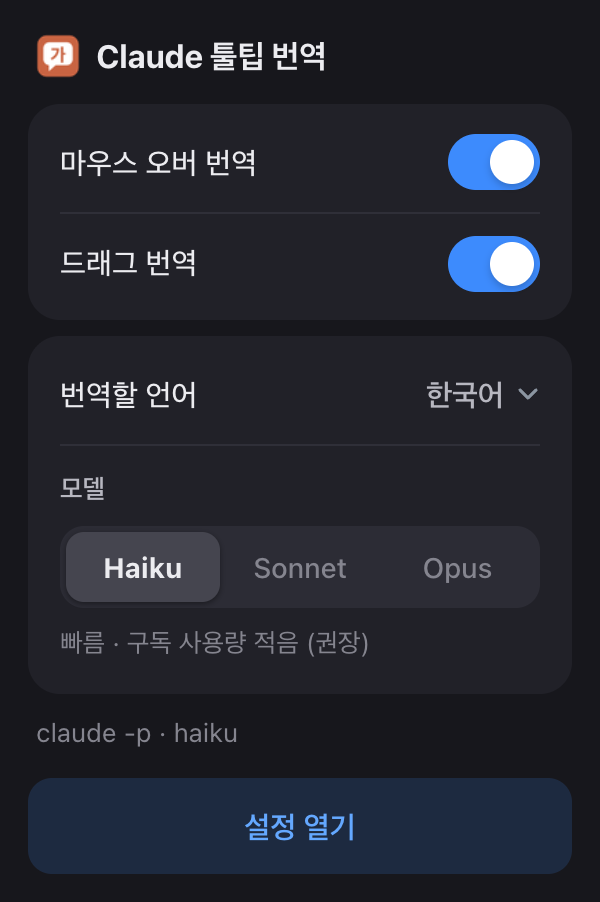
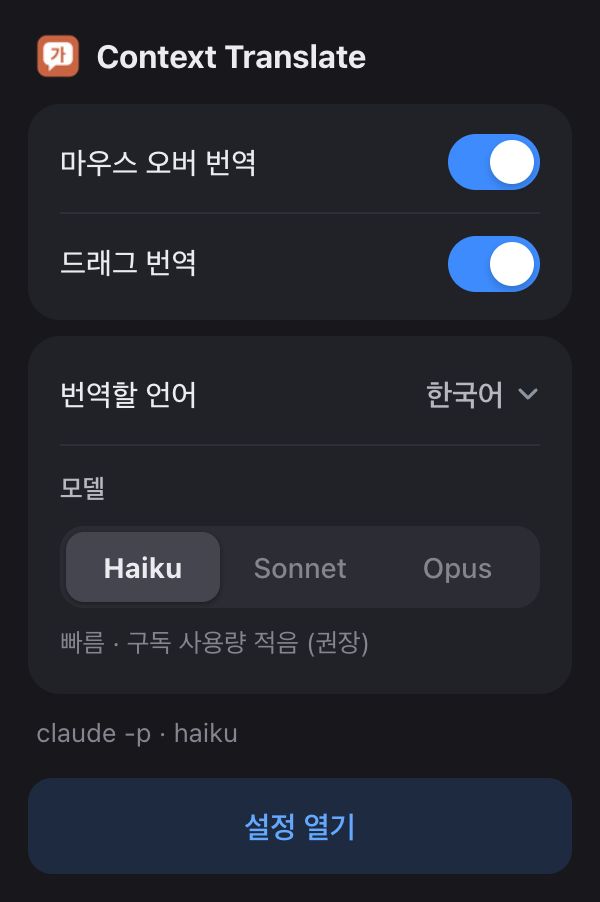
chore: 이름을 Context Translate로 변경 (예전 "Claude 툴팁 번역")
Anthropic 상표(Claude/Claude Code)를 제품·저장소 이름에 쓰지 않도록 변경.
"Claude Code로 동작한다"는 설명문에만 남김.

- 확장 이름(개인용·스토어), 팝업·설정 제목, 설치 안내, 중계 프로그램 설명
- package.json 이름, README 제목·소개·저장소 주소(github.com/ysh038/context-translate)
- README 팝업 스크린샷 다시 촬영
- 내부 식별자는 유지: native host dev.claude_tooltip_translate.cli,
  설치·로그 폴더 claude-tooltip-translate → 기존 설치는 다시 할 필요 없음

Changed region(s): [[0.21, 0.031, 0.6, 0.0931]]

diff --git a/src/options.html b/src/options.html
@@ -3,7 +3,7 @@
 <head>
 <meta charset="utf-8">
 <meta name="viewport" content="width=device-width, initial-scale=1">
-<title>Claude 툴팁 번역 · 설정</title>
+<title>Context Translate · 설정</title>
 <link rel="stylesheet" href="ui.css">
 </head>
 <body class="options">
@@ -11,7 +11,7 @@
   <header>
     <img src="icons/icon48.png" alt="" width="40" height="40">
     <div>
-      <h1>Claude 툴팁 번역</h1>
+      <h1>Context Translate</h1>
       <p class="muted">바꾸면 바로 저장돼요</p>
     </div>
   </header>

diff --git a/src/popup.html b/src/popup.html
@@ -5,7 +5,7 @@
 <link rel="stylesheet" href="ui.css">
 </head>
 <body class="popup">
-  <header class="ptitle"><img src="icons/icon32.png" width="22" height="22" alt=""> <span>Claude 툴팁 번역</span></header>
+  <header class="ptitle"><img src="icons/icon32.png" width="22" height="22" alt=""> <span>Context Translate</span></header>
 
   <div class="card list">
     <label class="item switch"><span>마우스 오버 번역</span><input id="hoverEnabled" type="checkbox"></label>

diff --git a/CLAUDE.md b/CLAUDE.md
@@ -1,4 +1,4 @@
-# Claude 툴팁 번역 — 프로젝트 안내 (Claude Code용)
+# Context Translate — 프로젝트 안내 (Claude Code용)
 
 웹페이지에서 **단어에 마우스를 올리면(hover)** 또는 **드래그하면** LLM으로 문맥에 맞게 번역해 툴팁으로 보여주는 Chrome 확장(MV3).
 현재는 **개인용**이 목표이고, 써보고 괜찮으면 **상업용(웹 스토어) 버전**을 같은 코드베이스에서 별도 빌드로 낸다.
@@ -20,7 +20,7 @@ tests/      e2e.mjs, host.test.mjs, fake-claude.mjs(가짜 claude — 구독 사
 ```
 - **확장 로드는 루트가 아니라 `dist/personal`** (`npm run build:personal`, 개발 중엔 `npm run dev`로 watch)
 - **설치 = `npm run setup` 하나** (`scripts/setup.mjs`): macOS·Node 18+·claude 확인 → 개인용 빌드 → host 등록 → `dist/personal` 경로를 클립보드에 복사하고 확장 관리 페이지 열기. 업데이트도 `git pull && npm run setup`. "개발자 모드 + 압축해제된 확장 로드" 한 번은 Chrome 정책상 못 없앰
-- **GitHub 공개 저장소**: https://github.com/ysh038/claude-tooltip-translate (MIT, 2026-11-06 공개). README는 사용자용(설치·사용법·문제 해결·약관 주의), 스크린샷은 `docs/images/`
+- **GitHub 공개 저장소**: https://github.com/ysh038/context-translate (MIT, 2026-11-06 공개, 예전 이름 claude-tooltip-translate). README는 사용자용(설치·사용법·문제 해결·약관 주의), 스크린샷은 `docs/images/`
   - 배포 관련 결정: claude -p 방식은 소스만 공개(각자 본인 구독·본인 판단, README에 약관 주의 명시). 웹 스토어 배포는 store 에디션으로만 (Chrome 내장 번역 기본값 + 본인 API 키 — docs/PLAN.md 3단계)
 - 빌드: `src/*.js`를 esbuild로 번들. background/options/popup은 ESM, content는 IIFE. `__EDITION__`은 define으로 치환, `edition:providers`는 에디션 providers만 import하는 가상 모듈 → store 번들엔 claude-cli 코드가 물리적으로 없음
 - 에디션 manifest = `src/manifest.json` + `editions/<이름>.json`의 `manifest`(permissions는 합집합) + `package.json` version
@@ -58,6 +58,8 @@ tests/      e2e.mjs, host.test.mjs, fake-claude.mjs(가짜 claude — 구독 사
 - **실제 Anthropic API 키로는 아직 테스트 안 함** (claude -p는 임시 프로필 + 실제 claude로 확인함)
 
 ## 확정된 결정
+0. **이름 = Context Translate** (2026-11-10, 예전 "Claude 툴팁 번역"). Anthropic 상표(Claude/Claude Code)를 제품·저장소 이름에 쓰지 않기 위해 변경. "Claude Code로 동작한다"는 설명문에만 씀
+   - 내부 식별자는 그대로: native host `dev.claude_tooltip_translate.cli`, 설치·로그 폴더 `claude-tooltip-translate` (바꾸면 기존 사용자 재설치·로그 경로 변경 필요)
 1. **개인용 먼저, 상업용은 투트랙.** 개인용 2~4주 사용 후 상업 버전 여부 결정
 2. **번역 엔진을 교체 가능한 구조(provider)로 리팩터링**: `chrome-builtin`, `claude-cli`, `anthropic-api` (+ 상업용에서 openai, gemini)
 3. **에디션은 브랜치가 아니라 빌드 설정으로 구분**: `build:personal` / `build:store`

diff --git a/README.md b/README.md
@@ -1,9 +1,9 @@
-# Claude 툴팁 번역
+# Context Translate
 
-웹페이지에서 **단어에 마우스를 올리거나 문장을 드래그하면**, Claude가 앞뒤 문맥을 보고 알맞은 뜻으로 번역해 툴팁으로 보여주는 Chrome 확장입니다.
-API 키 없이 **본인의 Claude Code 구독(`claude -p`)** 으로 동작합니다.
+웹페이지에서 **단어에 마우스를 올리거나 문장을 드래그하면**, 앞뒤 문맥을 보고 알맞은 뜻으로 번역해 툴팁으로 보여주는 Chrome 확장입니다.
+번역은 내 컴퓨터에 설치된 **Claude Code(`claude -p`)** 가 합니다. API 키 없이 본인 구독으로 동작합니다.
 
-> A Chrome extension that translates the word under your cursor (or your selection) in context, using your own Claude Code subscription via `claude -p`. macOS only. UI is in Korean.
+> A Chrome extension that translates the word under your cursor (or your selection) in context. Translation runs through your own locally installed Claude Code (`claude -p`) subscription. macOS only. UI is in Korean.
 
 | 마우스 오버 — 문맥에 맞는 뜻 | 드래그 — 자연스러운 번역 |
 |---|---|
@@ -31,8 +31,8 @@ API 키 없이 **본인의 Claude Code 구독(`claude -p`)** 으로 동작합니
 ## 설치
 
 ```bash
-git clone https://github.com/ysh038/claude-tooltip-translate.git
-cd claude-tooltip-translate
+git clone https://github.com/ysh038/context-translate.git
+cd context-translate
 npm run setup
 ```
 

diff --git a/docs/PLAN.md b/docs/PLAN.md
@@ -2,7 +2,7 @@
 
 ## 목표 구조
 ```
-claude-tooltip-translate/
+context-translate/
 ├─ src/                  확장 진입점(background/content/options/popup) + 정적 파일
 ├─ core/                 공통: 설정, 프롬프트, 캐시, provider 인터페이스, 엔진 선택
 ├─ providers/
